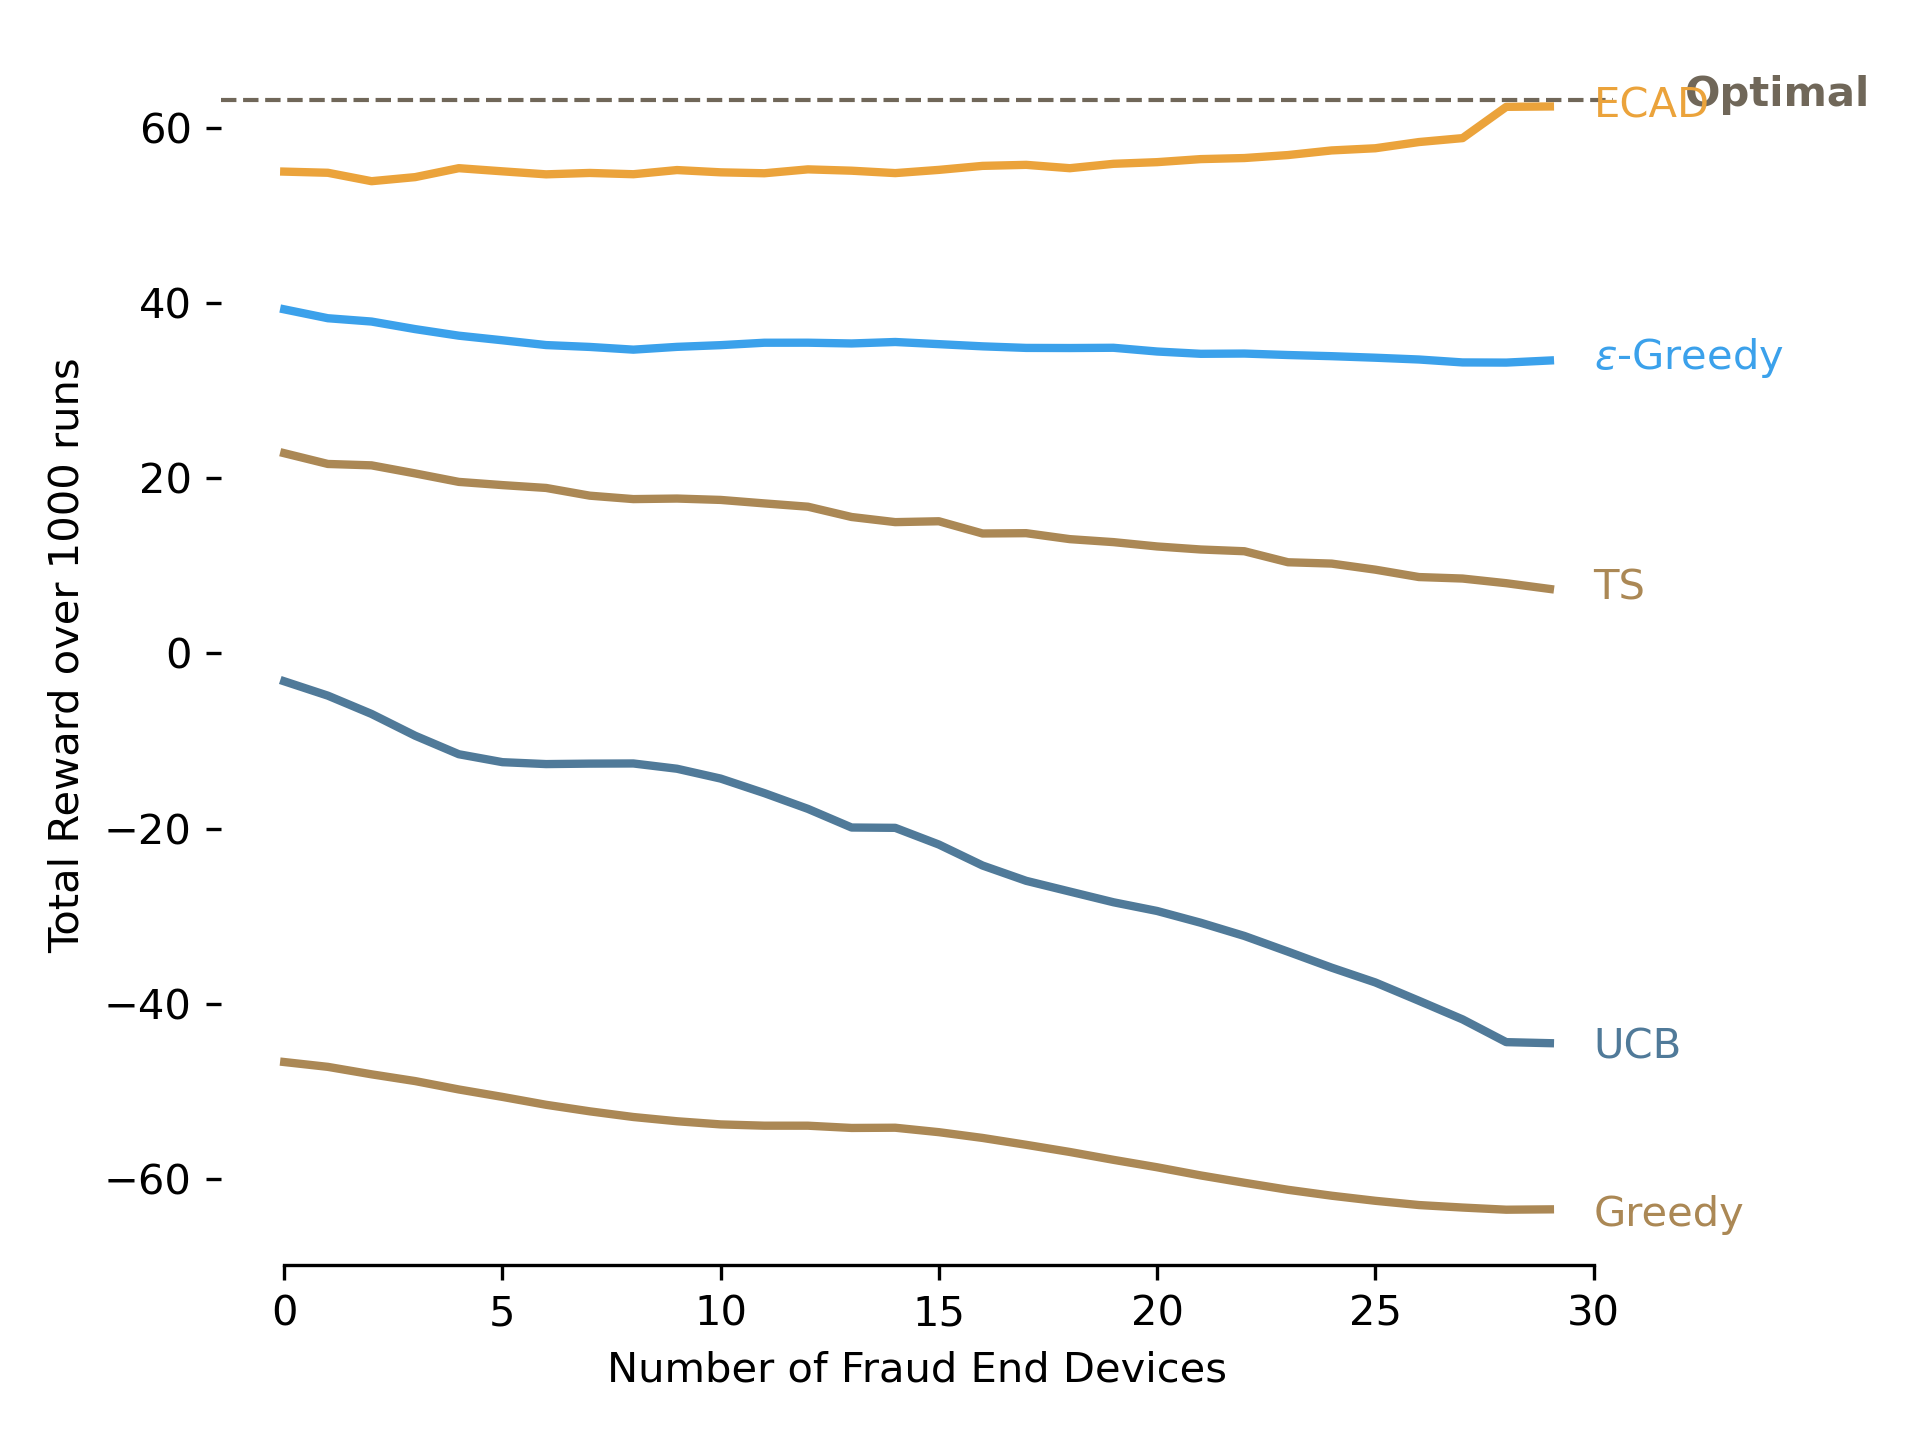
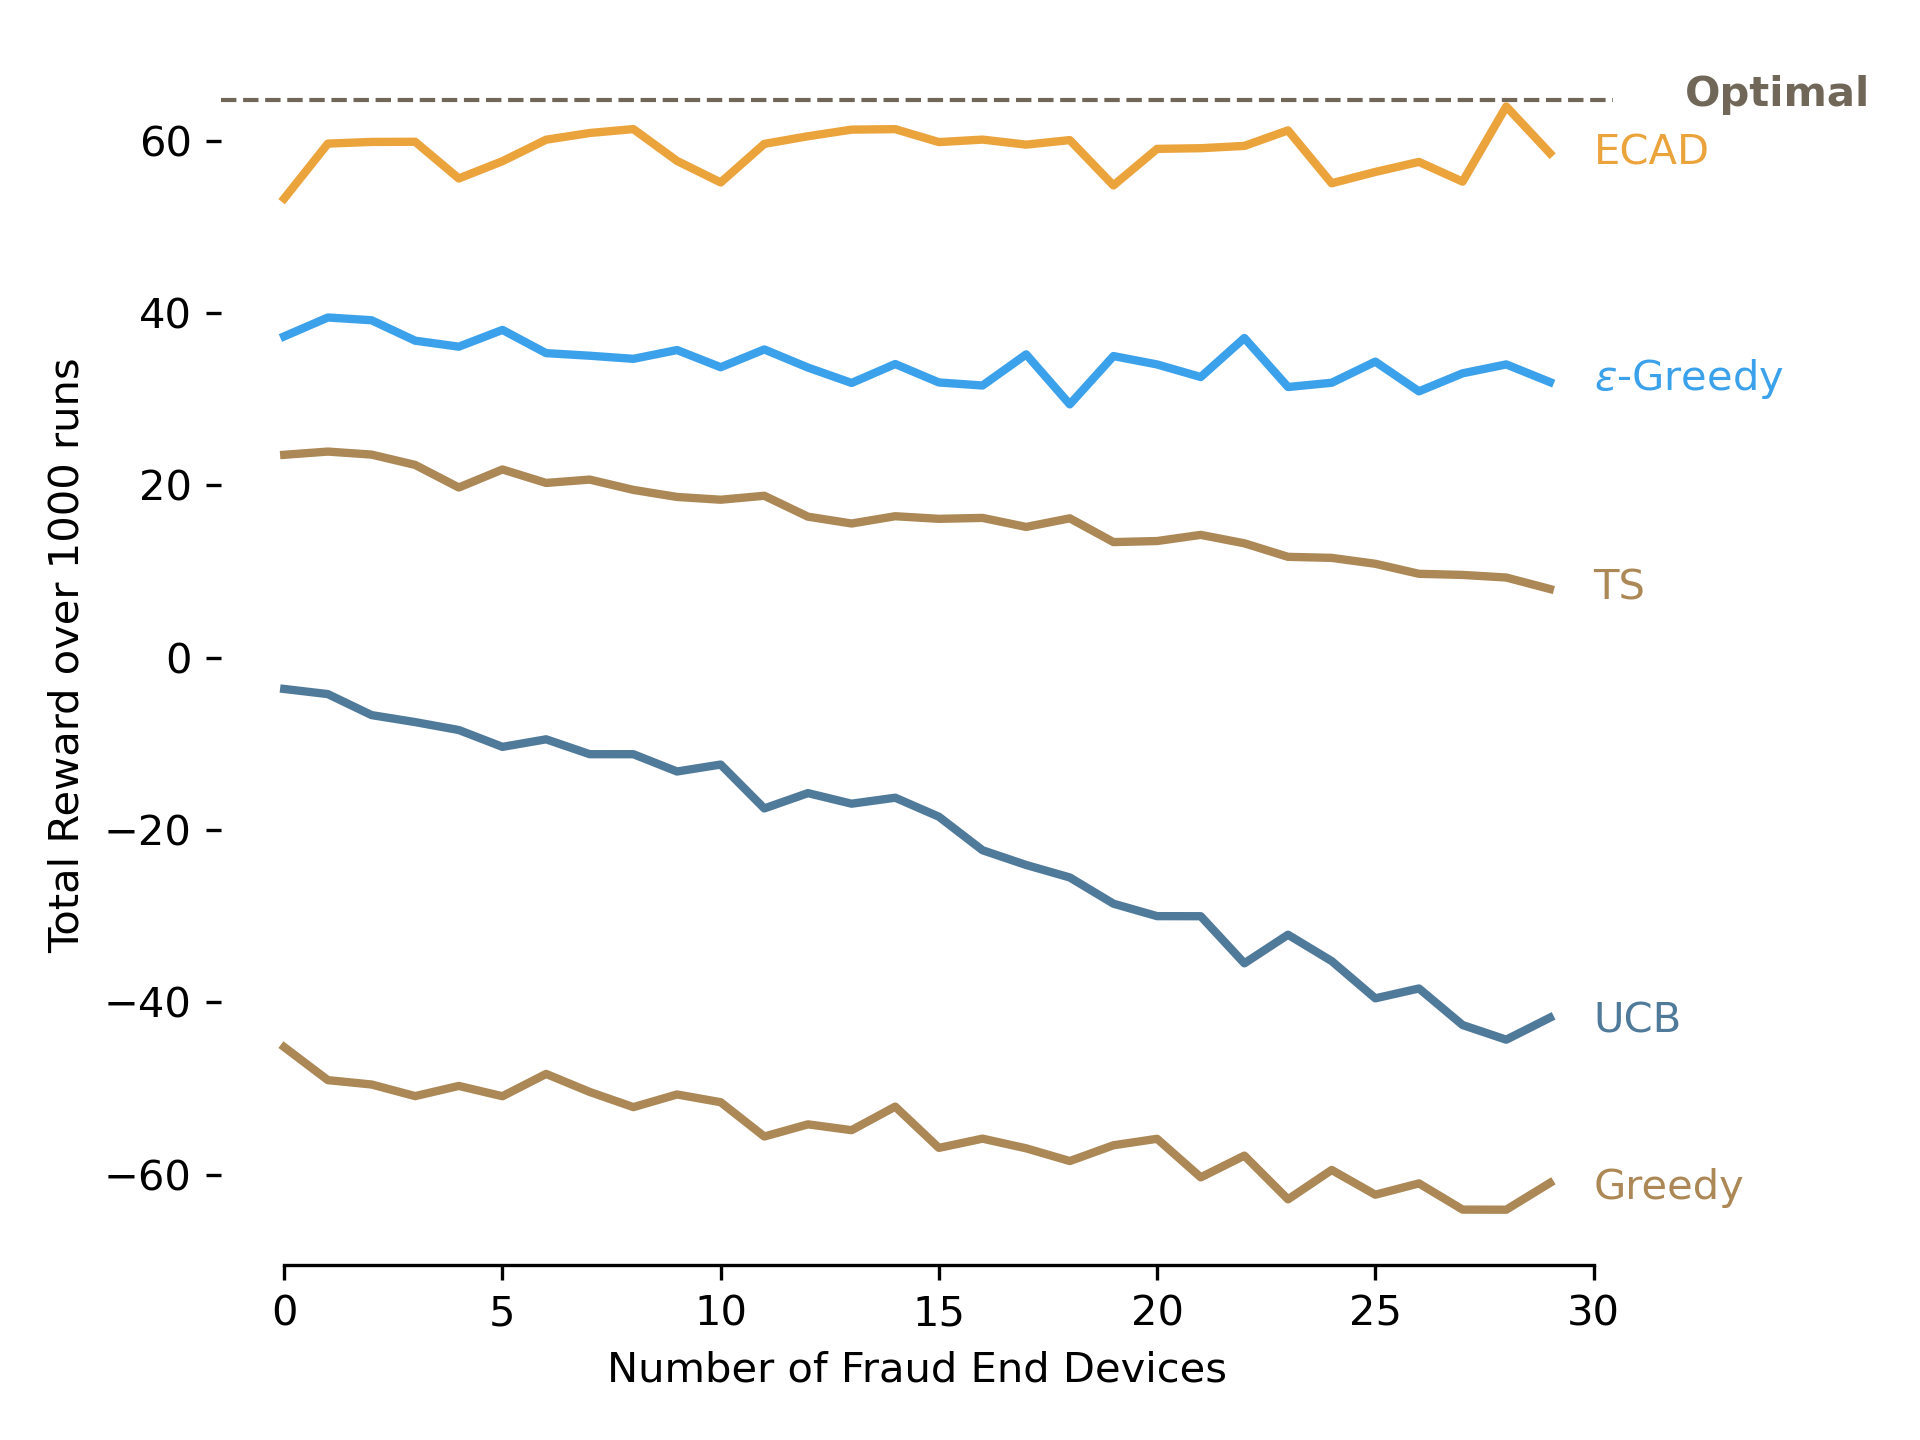
updates on rewarding mechanism

diff --git a/classes/MultiArmBandit.py b/classes/MultiArmBandit.py
@@ -17,6 +17,7 @@ class MultiArmBandit:
         self.noNoise = noNoise
         self.numOfTrueArms = numOfTrueArms
         self.times = times
+        self.phase_shift = [np.random.uniform(0, 2 * np.pi) for _ in range(num_arms)]
 
         # Ini mean values
         for i in np.arange(num_arms):
@@ -24,9 +25,9 @@ class MultiArmBandit:
 
     def pull_arm(self, index_arm, t, optimalAlgPulling=False, debug=False):
         T = self.period
-        # Adjust phase shift and amplitude based on arm index for variability
-        phase_shift = index_arm * (2 * np.pi / self.num_arms)
-        amplitude = 1 #+ 0.5 * np.sin(2 * np.pi * index_arm / self.num_arms)
+        # Adjust phase shift randomly for each arm
+        
+        amplitude = 1
         noise = np.random.normal(loc=0, scale=0.1)  # Consider experimenting with the scale
 
         if self.numOfFrauds != 0:
@@ -37,46 +38,46 @@ class MultiArmBandit:
             if self.optimalArm in fraudArms:
                 fraudArms = np.delete(fraudArms, np.where(fraudArms == self.optimalArm))
             if (index_arm == self.optimalArm) and (optimalAlgPulling):
-                r_t = amplitude * np.sin(2 * np.pi * t / (T + phase_shift))
+                r_t = amplitude * np.cos(2 * np.pi * t / (T)  + self.phase_shift[index_arm])
                 r_t = abs(r_t)
             elif (index_arm == self.optimalArm):
-                r_t = amplitude * np.sin(2 * np.pi * t / (T + phase_shift))
+                r_t = amplitude * np.cos(2 * np.pi * t / (T)  + self.phase_shift[index_arm])
                 r_t = abs(r_t)
                 r_t += noise
             elif index_arm in fraudArms:
-                r_t = amplitude * np.sin(2 * np.pi * t / (T + phase_shift))
+                r_t = amplitude * np.cos(2 * np.pi * t / (T)  + self.phase_shift[index_arm])
                 r_t = -abs(r_t)
                 r_t += noise
             elif index_arm in zeroArms:
-                r_t = 0.1 * np.sin(2 * np.pi * t / (T + phase_shift))
+                r_t = 0.1 * np.cos(2 * np.pi * t / (T)  + self.phase_shift[index_arm])
                 r_t = -abs(r_t)
                 r_t += noise
         elif self.numOfTrueArms == 0 and self.numOfFrauds == 0:
             if (index_arm == self.optimalArm) and (optimalAlgPulling):
-                r_t = amplitude * np.sin(2 * np.pi * t / (T + phase_shift))
+                r_t = amplitude * np.cos(2 * np.pi * t / (T)  + self.phase_shift[index_arm])
                 r_t = abs(r_t)
             elif (index_arm == self.optimalArm):
-                r_t = amplitude * np.sin(2 * np.pi * t / (T + phase_shift))
+                r_t = amplitude * np.cos(2 * np.pi * t / (T)  + self.phase_shift[index_arm])
                 r_t = abs(r_t)
                 if not self.noNoise:
                     r_t += noise
             else:
-                r_t = 0.1 * np.sin(2 * np.pi * t / (T + phase_shift))
+                r_t = 0.1 * np.cos(2 * np.pi * t / (T)  + self.phase_shift[index_arm])
                 r_t = abs(r_t)
                 if not self.noNoise:
                     r_t += noise
         elif self.numOfTrueArms != 0:
             trueArms = np.arange(0,self.numOfTrueArms,1)
             if (index_arm in trueArms) and (optimalAlgPulling):
-                r_t = amplitude * np.sin(2 * np.pi * t / (T + phase_shift))
+                r_t = amplitude * np.cos(2 * np.pi * t / (T)  + self.phase_shift[index_arm])
                 r_t = abs(r_t)
             elif (index_arm in trueArms):
-                r_t = amplitude * np.sin(2 * np.pi * t / (T + phase_shift))
+                r_t = amplitude * np.cos(2 * np.pi * t / (T)  + self.phase_shift[index_arm])
                 r_t = abs(r_t)
                 if not self.noNoise:
                     r_t += noise
             else:
-                r_t = 0.1 * np.sin(2 * np.pi * t / (T + phase_shift))
+                r_t = 0.1 * np.cos(2 * np.pi * t / (T)  + self.phase_shift[index_arm])
                 r_t = -abs(r_t)
                 if not self.noNoise:
                     r_t += noise

diff --git a/main.py b/main.py
@@ -40,7 +40,7 @@ def main(part1, part2, part3, part4):
         period = 30
         fraudArm = 20
         experiment_runner = ExperimentRunner(num_runs=numOfRuns, max_steps=maxSteps, optimalAlgName='Optimal', figSaveDir="30Arm_15thOptArm_Period30_Steps101_Run100_01ScaleNoise_mod2Fraud_01AmpNoiseReward")
-        mab = MultiArmBandit(numOfArms, period=period, optimalArm=optimalArm, numOfFrauds=1, numOfTrueArms=0)
+        mab = MultiArmBandit(numOfArms, period=period, optimalArm=optimalArm, numOfFrauds=1, numOfTrueArms=0, noNoise=True)
         new_bound_conf = NewConfidenceBound(mab=mab, period=period, max_steps=maxSteps)
         experiment_runner.runExperiments_part1(alg=new_bound_conf, alg_name=f'ECAD')
         ucb_bound_conf = UpperConfidenceBound(c=2, mab=mab, max_steps=maxSteps)
@@ -232,7 +232,7 @@ def main(part1, part2, part3, part4):
 
     if part4==True:
         numOfArms = 30
-        numOfRuns = 1000
+        numOfRuns = 10000
         maxSteps = 101
         optimalArm = 15
         period = 30
@@ -259,4 +259,4 @@ def main(part1, part2, part3, part4):
         experiment_runner.plotIncreasingNumOfArmsReward(numOfArms[-1], 2*len(numOfArms), numOfArms)
         experiment_runner.plotIncreasingNumOfArmsRegret(numOfArms[-1], 2*len(numOfArms), numOfArms)
         
-main(part1=False, part2=True, part3=False, part4=False)
+main(part1=True, part2=False, part3=False, part4=False)

diff --git a/algorithms/NewConfidenceBound.py b/algorithms/NewConfidenceBound.py
@@ -39,7 +39,7 @@ class NewConfidenceBound:
         predicted_rewards = []
         for arm in range(self.num_arms):
             a0, a1, b1 = self.fourier_coefficients[arm]
-            predicted_reward = a0 + a1 * np.cos(2 * np.pi * t / self.period + self.phase_shifts[arm]) + b1 * np.sin(2 * np.pi * t / self.period + self.phase_shifts[arm])
+            predicted_reward = a0 + np.sqrt(a1**2 + b1**2) * np.cos(2 * np.pi * t / self.period + self.phase_shifts[arm])
             predicted_rewards.append(predicted_reward)
         arm_to_pull = np.argmax(predicted_rewards)
         return arm_to_pull
@@ -63,7 +63,7 @@ class NewConfidenceBound:
         rewards = np.array(self.observed_rewards[arm])
 
         # Normalize times by the period to bring them within a single period cycle
-        normalized_times = 2 * np.pi * times / (self.period + self.phase_shifts[arm])
+        normalized_times = 2 * np.pi * times / (self.period)
         # Calculate Fourier coefficients
         # a0: Average of the rewards (DC component)
         a0 = np.mean(rewards)
